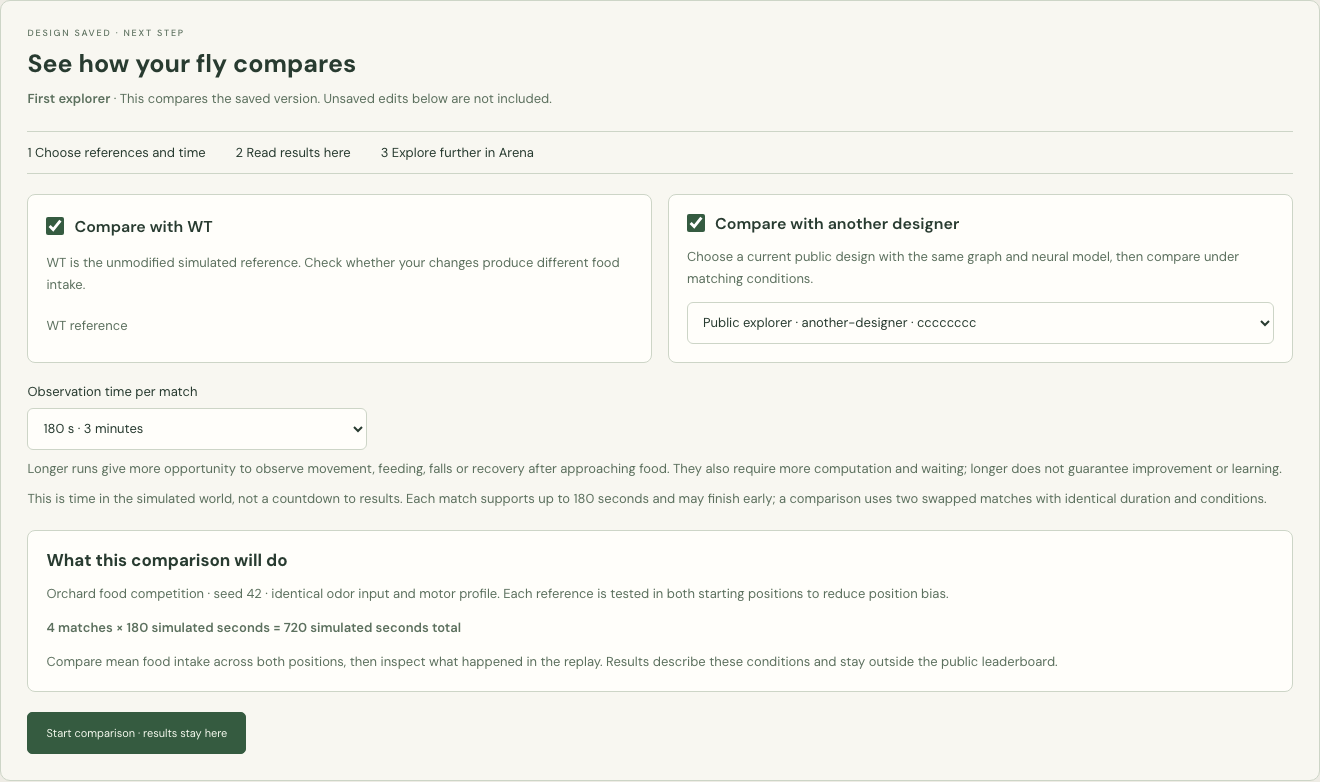
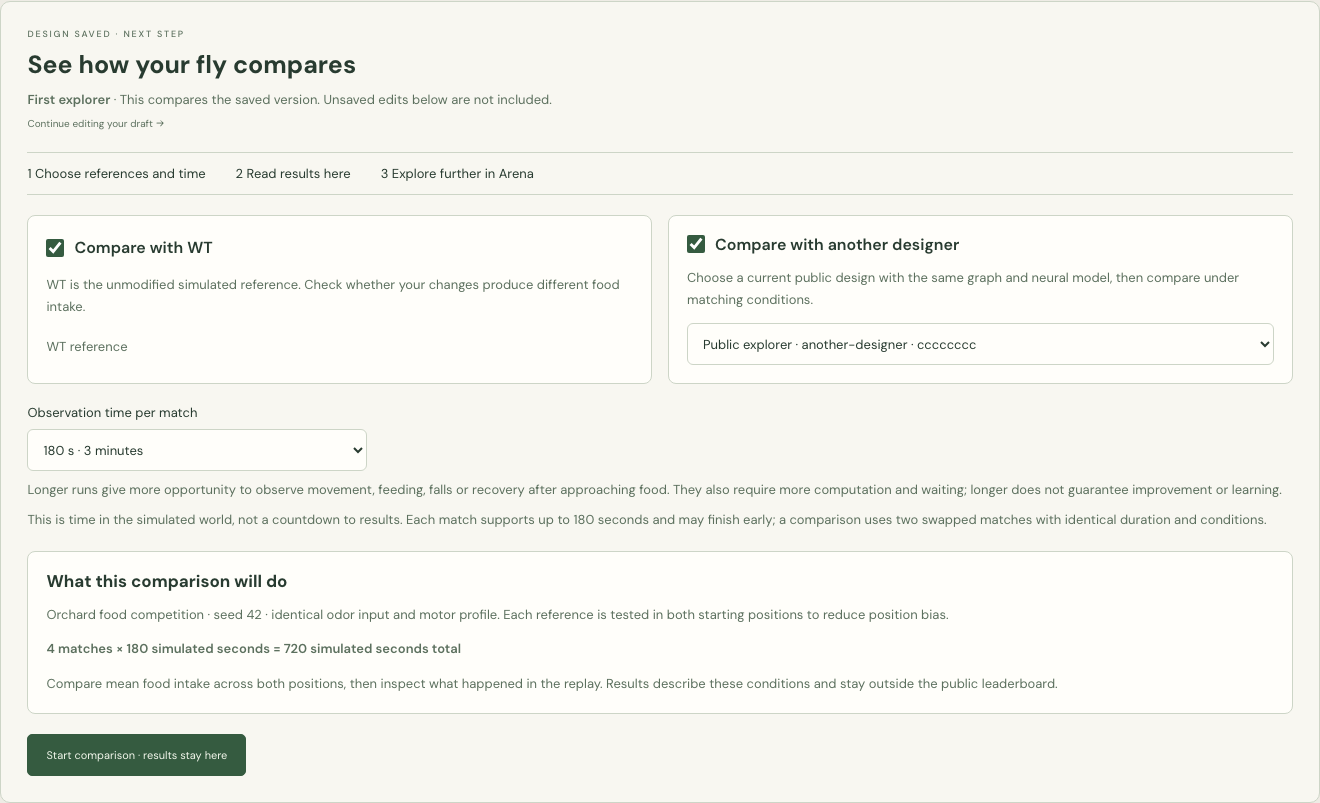
Clarify first-time design guidance and disclose advanced tools progressively

diff --git a/web/src/App.tsx b/web/src/App.tsx
@@ -75,6 +75,8 @@ export default function App(){
   const experimentSubmitting=useRef(false)
   const pendingIntent=useRef<'match'|'save'|'save-arena'|'save-train'|null>(null)
   const [comparisonFocus,setComparisonFocus]=useState(0)
+  const [comparisonOpen,setComparisonOpen]=useState(true)
+  const [hasDraft,setHasDraft]=useState(false)
   const [identityName,setIdentityName]=useState('')
   const [invite,setInvite]=useState('')
   const [showToken,setShowToken]=useState(false)
@@ -191,7 +193,7 @@ export default function App(){
     weight_mutations:Object.entries(scales).filter(([,v])=>Math.abs(v-1)>.00001).map(([selector,scale])=>({selector,scale})),
     edge_deltas:edgeDeltas,interventions,neuron_parameters:{...baseSpec.neuron_parameters,tau_scale:tau,threshold_shift_mv:threshold},plasticity:baseSpec.plasticity||'none'}),[baseSpec,interventions,name,color,parentId,season,scales,edgeDeltas,tau,threshold])
 
-  function clone(fly:Fly){setReplayOrigin(null);setParentId(fly.id);setBaseSpec(fly.spec);setInterventions(fly.spec.interventions||[]);setSelected(fly.id);setName(fly.name.split(' / ')[0]+' 02');setColor(fly.color);const values:Record<string,number>=defaultScales();for(const m of fly.spec.weight_mutations)values[m.selector]=(values[m.selector]??1)*m.scale;setScales(values);setTau(fly.spec.neuron_parameters.tau_scale);setThreshold(fly.spec.neuron_parameters.threshold_shift_mv);setEdgeDeltas(fly.spec.edge_deltas);setReport(null)}
+  function clone(fly:Fly){setHasDraft(true);setComparisonOpen(false);setReplayOrigin(null);setParentId(fly.id);setBaseSpec(fly.spec);setInterventions(fly.spec.interventions||[]);setSelected(fly.id);setName(fly.name.split(' / ')[0]+' 02');setColor(fly.color);const values:Record<string,number>=defaultScales();for(const m of fly.spec.weight_mutations)values[m.selector]=(values[m.selector]??1)*m.scale;setScales(values);setTau(fly.spec.neuron_parameters.tau_scale);setThreshold(fly.spec.neuron_parameters.threshold_shift_mv);setEdgeDeltas(fly.spec.edge_deltas);setReport(null)}
   async function action(label:string,fn:()=>Promise<void>){setBusy(label);setError('');try{await fn()}catch(e){setError(e instanceof Error?e.message:String(e))}finally{setBusy('')}}
   function loginNyxID(){if(!authSettings?.login_url)return;try{sessionStorage.setItem('flyarena.pendingDesign',JSON.stringify({spec,jsonEditor,tab,replayOrigin,intent:pendingIntent.current,experiment:pendingExperiment.current,experimentAttempt:experimentAttempt.current,setup:{selected,mapId,mode,opponent,duration,seedText,bridgeProfile,sensoryProfile}}));window.location.assign(authSettings.login_url)}catch(e){setError(String(e))}}
   async function createAgentToken(){await action('agent-token',async()=>{const key=await api<{token:string}>('/auth/agent-tokens',{method:'POST'});setFreshToken(key.token);setAgentTokens(await api('/auth/agent-tokens'))})}
@@ -200,18 +202,19 @@ export default function App(){
   async function validate(){if(!identity){setLogin(true);return}await action('validate',async()=>{const r=await api<Report>('/flies/validate',{method:'POST',body:JSON.stringify(spec)},identity);setReport(r);setToast(t("权重、图谱版本和变异预算验证通过。"))})}
   async function previewNeural(){if(!identity){setLogin(true);return}await action('neural-preview',async()=>{const result=await api<NeuralPreview>('/flies/preview',{method:'POST',body:JSON.stringify(spec)},identity);setNeuralPreview({data:result,specKey:JSON.stringify(spec)});setToast(t('Neural preview recorded from the retained graph.'))})}
   async function previewExample(){await action('neural-example',async()=>{const response=await fetch('/examples/neural-preview-nectar-v3.json');if(!response.ok)throw Error(locale==='zh-CN'?'刺激样本暂不可用':'Stimulus example is unavailable');const data:NeuralPreview=await response.json();if(!['neural-design-preview/v2','neural-design-preview/v3'].includes(data.schema)||!data.example)throw Error('Invalid stimulus example');setNeuralPreview({data,specKey:null})})}
-  function openSavedComparison(){setTab('design');setComparisonFocus(value=>value+1)}
+  function openSavedComparison(){setComparisonOpen(true);setTab('design');setComparisonFocus(value=>value+1)}
   useEffect(()=>{
     if(!comparisonFocus||tab!=='design')return
-    const panel=document.getElementById('saved-design-comparison')
+    const panel=document.getElementById('comparison-content')
     panel?.scrollIntoView?.({block:'start',behavior:'smooth'});panel?.focus({preventScroll:true})
   },[comparisonFocus,tab])
+  function openEditor(){setComparisonOpen(false);setHasDraft(true);document.getElementById('fly-name')?.scrollIntoView?.({block:'center',behavior:'smooth'});document.getElementById('fly-name')?.focus({preventScroll:true})}
   async function publish(){
     if(!identity){pendingIntent.current='save';setLogin(true);return}
     await action('publish',async()=>{
       const fly=await api<Fly>('/flies',{method:'POST',body:JSON.stringify(spec)},identity)
       setFlies(old=>[fly,...old.filter(item=>item.id!==fly.id)])
-      setSelected(fly.id);setReport(fly.report);setBaseSpec(fly.spec);setParentId(fly.id);setReplayOrigin(null)
+      setHasDraft(false);setSelected(fly.id);setReport(fly.report);setBaseSpec(fly.spec);setParentId(fly.id);setReplayOrigin(null)
       openSavedComparison();setToast('')
     })
   }
@@ -250,7 +253,7 @@ export default function App(){
     if(intent==='match'){const plan=pendingExperiment.current;if(plan)void startMatch(plan)}
     else if(intent)void publish()
   },[identity,login,season,setupRestored])
-  function loadSpec(value:Spec){assertSpec(value);setReplayOrigin(null);setParentId(value.parent_id||null);setBaseSpec(value);setInterventions(value.interventions||[]);setName(value.name);setColor(value.color);setSelected(value.parent_id||'');const values:Record<string,number>=defaultScales();for(const m of value.weight_mutations)values[m.selector]=(values[m.selector]??1)*m.scale;setScales(values);setTau(value.neuron_parameters?.tau_scale??1);setThreshold(value.neuron_parameters?.threshold_shift_mv??0);setEdgeDeltas(value.edge_deltas||[]);setReport(null);setTab('design');setToast(t("设计已导入；保存时将再次通过服务端验证。"))}
+  function loadSpec(value:Spec){assertSpec(value);setHasDraft(true);setComparisonOpen(false);setReplayOrigin(null);setParentId(value.parent_id||null);setBaseSpec(value);setInterventions(value.interventions||[]);setName(value.name);setColor(value.color);setSelected(value.parent_id||'');const values:Record<string,number>=defaultScales();for(const m of value.weight_mutations)values[m.selector]=(values[m.selector]??1)*m.scale;setScales(values);setTau(value.neuron_parameters?.tau_scale??1);setThreshold(value.neuron_parameters?.threshold_shift_mv??0);setEdgeDeltas(value.edge_deltas||[]);setReport(null);setTab('design');setToast(t("设计已导入；保存时将再次通过服务端验证。"))}
   function designFromReplay(draft:Spec,origin:ReplayDesignOrigin){loadSpec(draft);setReplayOrigin(origin);setSelected('');setNeuralPreview(null);setPlay(false)}
   const estimated=useMemo(()=>{
     if(!season)return 0
@@ -274,20 +277,20 @@ export default function App(){
       {error&&<div className="error-banner" role="alert"><span>{error}</span><button onClick={()=>setError('')} aria-label={t("关闭错误")}><X size={16}/></button></div>}
 
       {tab==='design'&&<>
-        {replayOrigin&&<section className="panel replay-design-origin" aria-label={locale==='zh-CN'?'回放设计来源':'Replay design source'}><div><strong>{locale==='zh-CN'?'从这份参赛大脑继续设计：':'Designing from this recorded brain: '}{replayOrigin.name}</strong><p>{locale==='zh-CN'?'当前是未保存的后代草稿。修改、预览并保存后，选择算法训练或与 WT 竞技。':'This is an unsaved child draft. Edit, preview and save it, then select training or compete with WT.'}</p></div><button className="text-link" aria-label={locale==='zh-CN'?'回看亲代这场表现':'Revisit the parent’s match'} onClick={()=>setFocused(replayOrigin.matchId)}>{locale==='zh-CN'?'回看亲代这场表现':'Revisit the parent’s match'} →</button></section>}
+        {replayOrigin&&<section className="panel replay-design-origin" aria-label={locale==='zh-CN'?'回放设计来源':'Replay design source'}><div><strong>{locale==='zh-CN'?'从这份参赛大脑继续设计：':'Designing from this recorded brain: '}{replayOrigin.name}</strong><p>{locale==='zh-CN'?'当前是未保存的后代草稿。修改并保存后，先与 WT 和其他设计对比。':'This is an unsaved child draft. Edit and save it, then compare with WT and other designs.'}</p></div><button className="text-link" aria-label={locale==='zh-CN'?'回看亲代这场表现':'Revisit the parent’s match'} onClick={()=>setFocused(replayOrigin.matchId)}>{locale==='zh-CN'?'回看亲代这场表现':'Revisit the parent’s match'} →</button></section>}
 
-        {guideFly&&identity&&<div id="saved-design-comparison" tabIndex={-1}><FirstComparison key={identity.id+guideFly.id} subject={guideFly} flies={availableFlies} maps={maps} season={season} identity={identity} onArena={(series,match)=>{setSelected(guideFly.id);navigate('arena','',match,series,'');setPlay(false)}}/></div>}
-        <PlaygroundGuide neuronCount={season?.connectome.neuron_count}
-          canCloneWT={!!matchingWildType(flies)} hasSavedDesign={!!guideFly} subjectName={guideFly?.name} canCompare={!!guideFly} hasCompared={!!baselineComparison(availableFlies,guideFly,guideEvidence.record)} hasEvolved={hasRecordedEvolution(guideEvidence.record,guideFly)} evidenceError={guideEvidence.error}
+        {guideFly&&identity&&<details id="saved-design-comparison" open={comparisonOpen} onToggle={e=>setComparisonOpen(e.currentTarget.open)}><summary>{locale==='zh-CN'?'已保存版本的对比与结果':'Saved design: comparison and results'} · {guideFly.name}</summary><div tabIndex={-1} id="comparison-content"><FirstComparison key={identity.id+guideFly.id} subject={guideFly} flies={availableFlies} maps={maps} season={season} identity={identity} onEdit={openEditor} onArena={(series,match)=>{setSelected(guideFly.id);navigate('arena','',match,series,'');setPlay(false)}}/></div></details>}
+        <PlaygroundGuide hasDraft={hasDraft} referenceOnly={!!guideFly&&comparisonOpen} neuronCount={season?.connectome.neuron_count}
+          canCloneWT={!!matchingWildType(flies)} hasSavedDesign={!!guideFly} subjectName={hasDraft?name:guideFly?.name} canCompare={!!guideFly} hasCompared={!!baselineComparison(availableFlies,guideFly,guideEvidence.record)} hasEvolved={hasRecordedEvolution(guideEvidence.record,guideFly)} evidenceError={guideEvidence.error}
           onCompare={openSavedComparison}
-          onDesign={()=>{document.getElementById('fly-name')?.scrollIntoView({block:'center',behavior:'smooth'});document.getElementById('fly-name')?.focus({preventScroll:true})}}
-          onCloneWT={()=>{const wt=matchingWildType(flies);if(wt){clone(wt);setToast(locale==='zh-CN'?'已复制 WT 为草稿。修改并保存后，再训练或挑战。':'WT copied into a draft. Edit and save it before training or competing.');document.getElementById('fly-name')?.focus()}}}
+          onDesign={openEditor}
+          onCloneWT={()=>{const wt=matchingWildType(flies);if(wt){clone(wt);setToast(locale==='zh-CN'?'已复制 WT 为草稿。命名、做一个小改动，再保存并对比。':'WT copied into a draft. Name it, make one small change, then save and compare.');document.getElementById('fly-name')?.focus()}}}
           onTrain={()=>{if(guideFly)setSelected(guideFly.id);navigate('train',experimentId,'','')}} onArena={()=>{if(guideFly)setSelected(guideFly.id);setMode('contest');navigate('arena',experimentId,'','');setPlay(false)}}
           onAI={()=>{setJsonEditor(JSON.stringify(spec,null,2));setTab('code')}}/>
         <div className="design-workspace">
-          <aside className="collection panel"><div className="panel-heading"><span>{t("我的果蝇库")}</span><span className="count">{flies.length.toString().padStart(2,'0')}</span></div><div className="tiny-label">{t("SELECT A STARTING POINT")}</div><p className="draft-status">{parentId?t('Unsaved draft from parent')+': '+parentId:t('Unsaved canonical draft')}</p>
+          <aside className="collection panel"><div className="panel-heading"><span>{locale==='zh-CN'?'果蝇库 · 选择起点':'Fly library · starting points'}</span><span className="count">{flies.length.toString().padStart(2,'0')}</span></div><div className="tiny-label">{t("SELECT A STARTING POINT")}</div><p className="draft-status">{parentId?t('Unsaved draft from parent')+': '+parentId:t('Unsaved canonical draft')}</p>
             <div className="fly-list">{flies.slice(0,12).map(f=><SavedFlyCard key={f.id} fly={f} viewer={identity?.id} selected={parentId===f.id} onClone={clone}/>)}</div>
-            <button className="new-fly" onClick={()=>{setReplayOrigin(null);setScales(defaultScales());setTau(1);setThreshold(0);setName('Untitled 01');setSelected('');setParentId(null);setBaseSpec({});setInterventions([]);setEdgeDeltas([]);setReport(null);setToast(t("已恢复基线参数，为新设计取个名字吧。"))}}><Plus size={15}/>{t("从原型开始设计")}</button>
+            <button className="new-fly" onClick={()=>{setHasDraft(true);setComparisonOpen(false);setReplayOrigin(null);setScales(defaultScales());setTau(1);setThreshold(0);setName('Untitled 01');setSelected('');setParentId(null);setBaseSpec({});setInterventions([]);setEdgeDeltas([]);setReport(null);setToast(t("已恢复基线参数，为新设计取个名字吧。"))}}><Plus size={15}/>{t("从原型开始设计")}</button>
             <div className="collection-footer"><GitBranch size={18}/><strong>{t("进化，有迹可循")}</strong><p>{t("每个设计都保留图谱来源、父代和不可变的权重版本。")}</p><button onClick={()=>setTab('train')}>{t("Training sandbox")}<ArrowRight size={14}/></button></div>
           </aside>
 
@@ -298,20 +301,21 @@ export default function App(){
             <div className="specimen-stats"><div><span>{t("NEURONS")}</span><strong>{season?num(season.connectome.neuron_count):'—'}</strong></div><div><span>{t("CONNECTIONS")}</span><strong>{season?(season.connectome.edge_count/1e6).toFixed(2)+'M':'—'}</strong></div><div><span>{t("BODY MODEL")}</span><strong>MuJoCo <small>3.9</small></strong></div></div>
           </section>
 
-          <aside className="editor panel"><div className="panel-heading"><span><Settings2 size={16}/> {t("神经设计")}</span><button className="icon-button" title={t("重置参数")} onClick={()=>{setScales(defaultScales());setTau(1);setThreshold(0);setInterventions([]);setEdgeDeltas([]);setReport(null)}}><RotateCcw size={15}/></button></div>
+          <aside className="editor panel" onChange={()=>setHasDraft(true)}><div className="panel-heading"><span><Settings2 size={16}/> {t("神经设计")}</span><button className="icon-button" title={t("重置参数")} onClick={()=>{setScales(defaultScales());setTau(1);setThreshold(0);setInterventions([]);setEdgeDeltas([]);setReport(null)}}><RotateCcw size={15}/></button></div>
+            <p className="editor-first-step">{locale==='zh-CN'?'第一次只需：命名 → 小幅修改一个权重 → 保存并对比。先保留默认神经模型；下方高级工具可稍后探索。':'For your first design: name it → change one weight slightly → save and compare. Keep the default neural model; advanced tools can wait.'}</p>
             <label className="field-label" htmlFor="fly-name">{t("给你的果蝇命名")}</label><input id="fly-name" value={name} onChange={e=>setName(e.target.value)} maxLength={64}/>
             <div className="color-row"><span>{t("个体标记")}</span><div>{Object.entries(colors).map(([key,value])=><button key={key} title={t(key)} aria-label={t("选择 ")+t(key)+t(" 配色")} className={color===key?'chosen':''} style={{background:value}} onClick={()=>setColor(key)}>{color===key&&<Check size={11}/>}</button>)}</div></div>
             <div className="section-divider"/>
-            <BrainModelPicker value={spec.model_profile} onChange={model=>{setBaseSpec(old=>({...old,model_profile:model}));setReport(null)}}/>
+            <details className="design-extra"><summary>{locale==='zh-CN'?'高级：更换神经模型':'Advanced: change neural model'}</summary><BrainModelPicker value={spec.model_profile} onChange={model=>{setBaseSpec(old=>({...old,model_profile:model}));setReport(null)}}/></details>
             <div className="controls-caption"><strong>{t("连接权重")}</strong><span>{t("原型 × 1.00")}</span></div>
             <p className="capability-note">{t('Start with olfactory → projection / local → readout. Vision depends on the match sensory profile; weight edits alone do not add learning or new motor channels.')}</p><div className="sliders">{season?.connectome.circuits.filter(c=>!['visual','memory','motor'].includes(c.id)).map(c=><label key={c.id} className={'slider-control '+(['visual','memory','motor'].includes(c.id)?'exploratory':'primary-control')}><span><span className="circuit-dot" style={{background:c.color}}/>{t(c.label)}<small>× {scales[c.id]?.toFixed(2)}</small></span><input aria-label={t(c.label)+' '+t('Weight')} type="range" min="0.5" max="2" step=".01" value={scales[c.id]??1} onChange={e=>{setScales(s=>({...s,[c.id]:Number(e.target.value)}));setReport(null)}}/></label>)}</div><details className="exploratory-controls"><summary>{t('Exploratory edits: vision, memory and motor')}</summary><p>{t('Experimental visual input requires a compatible sensory profile. Memory and motor edits remain exploratory.')}</p><div className="sliders">{season?.connectome.circuits.filter(c=>['visual','memory','motor'].includes(c.id)).map(c=><label key={c.id} className={'slider-control '+(['visual','memory','motor'].includes(c.id)?'exploratory':'primary-control')}><span><span className="circuit-dot" style={{background:c.color}}/>{t(c.label)}<small>× {scales[c.id]?.toFixed(2)}</small></span><input aria-label={t(c.label)+' '+t('Weight')} type="range" min="0.5" max="2" step=".01" value={scales[c.id]??1} onChange={e=>{setScales(s=>({...s,[c.id]:Number(e.target.value)}));setReport(null)}}/></label>)}</div></details>
             <details className="intrinsic"><summary>{t("神经元动力学")}<ChevronDown size={13}/></summary><label>{t("膜时间常数")}<b>× {tau.toFixed(2)}</b><input aria-label={t("膜时间常数")} type="range" min=".8" max="1.2" step=".01" value={tau} onChange={e=>{setTau(+e.target.value);setReport(null)}}/></label><label>{t("发放阈值变化")}<b>{threshold>0?'+':''}{threshold.toFixed(1)} {t("mV")}</b><input aria-label={t("发放阈值")} type="range" min="-1" max="1" step=".1" value={threshold} onChange={e=>{setThreshold(+e.target.value);setReport(null)}}/></label></details>
             <div className={'budget '+(used>100?'over':'')}><div><span>{report?t("已验证预算"):t("预算估算")}</span><strong>{used.toFixed(1)} <small>/ 100</small></strong></div><div className="budget-track"><span style={{width:Math.min(100,used)+'%'}}/></div><p>{report?`${num(report.changed_edges)} ${t('Changed connections')}`:t("强化与削弱都消耗预算，最终由服务端核算。")}</p>{!report&&(interventions.length>0||edgeDeltas.length>0)&&<p>{t('Estimate excludes advanced and edge edits. Validate for the authoritative total.')}</p>}</div>
-            <div className="editor-actions"><button className="primary" onClick={()=>publish()} disabled={!!busy||!season}>{busy==='publish'?<Loader2 className="spin" size={15}/>:<Plus size={15}/>}{locale==='zh-CN'?'保存并对比':'Save and compare'}</button><button className="secondary" onClick={validate} disabled={!!busy}>{busy==='validate'?<Loader2 className="spin" size={15}/>:<ShieldCheck size={15}/>}{t("验证")}</button><button className="secondary" onClick={previewNeural} disabled={!!busy||!season}>{busy==='neural-preview'?<Loader2 className="spin" size={15}/>:<AudioLines size={15}/>}{t('Preview neural response')}</button><button className="secondary" onClick={previewExample} disabled={!!busy}>{busy==='neural-example'?<Loader2 className="spin" size={15}/>:<Beaker size={15}/>} {locale==='zh-CN'?'查看真实刺激样本':'View recorded stimulus example'}</button></div>
+            <div className="editor-actions"><button className="primary" onClick={()=>publish()} disabled={!!busy||!season}>{busy==='publish'?<Loader2 className="spin" size={15}/>:<Plus size={15}/>}{locale==='zh-CN'?'保存并对比':'Save and compare'}</button><button className="secondary" onClick={validate} disabled={!!busy}>{busy==='validate'?<Loader2 className="spin" size={15}/>:<ShieldCheck size={15}/>}{t("验证")}</button></div><details className="design-extra"><summary>{locale==='zh-CN'?'可选：检查神经响应与刺激样本':'Optional: inspect neural responses and examples'}</summary><div className="editor-actions"><button className="secondary" onClick={previewNeural} disabled={!!busy||!season}>{busy==='neural-preview'?<Loader2 className="spin" size={15}/>:<AudioLines size={15}/>}{t('Preview neural response')}</button><button className="secondary" onClick={previewExample} disabled={!!busy}>{busy==='neural-example'?<Loader2 className="spin" size={15}/>:<Beaker size={15}/>} {locale==='zh-CN'?'查看真实刺激样本':'View recorded stimulus example'}</button></div></details>
           </aside>
         </div>
         {neuralPreview&&<NeuralPreviewPanel record={neuralPreview} stale={neuralPreview.specKey!==JSON.stringify(spec)} circuits={season?.connectome.circuits||[]} onImport={loadSpec} onReplay={id=>{setFocused(id);setTab('arena')}}/>}
-        <AdvancedInterventions value={interventions} onChange={v=>{setInterventions(v);setReport(null)}} report={report} spec={spec} onValidate={validate} busy={!!busy}/>
+        <details className="design-extra design-advanced"><summary>{locale==='zh-CN'?'高级设计：定向干预与连接编辑':'Advanced design: targeted interventions and connections'}</summary><AdvancedInterventions value={interventions} onChange={v=>{setInterventions(v);setReport(null)}} report={report} spec={spec} onValidate={validate} busy={!!busy}/></details>
         <button className="text-link" onClick={()=>{setFocused('');setPlay(false)}}>{t('guide.arenaLink')}<ArrowUpRight size={16}/></button>
       </>}
 

diff --git a/web/src/features/design/FirstComparison.tsx b/web/src/features/design/FirstComparison.tsx
@@ -12,7 +12,7 @@ import './firstComparison.css'
 type Request=Extract<ExperimentPlan['submissions'][number],{endpoint:'/tournaments'}>['body']
 type Entry={key:string;request:Request;referenceName:string;kind:'wt'|'public';id?:string}
 type Attempt={entries:Entry[]}
-type Props={subject:Fly;flies:Fly[];maps:ArenaMap[];season:Season|null;identity:Identity;onArena:(series:string,match:string)=>void}
+type Props={subject:Fly;flies:Fly[];maps:ArenaMap[];season:Season|null;identity:Identity;onEdit?:()=>void;onArena:(series:string,match:string)=>void}
 
 function restore(key:string,subject:Fly):Attempt|null{
  try{
@@ -28,7 +28,7 @@ function restore(key:string,subject:Fly):Attempt|null{
  return null
 }
 
-export function FirstComparison({subject,flies,maps,season,identity,onArena}:Props){
+export function FirstComparison({subject,flies,maps,season,identity,onEdit,onArena}:Props){
  const {locale,t}=useI18n(),zh=locale==='zh-CN'
  const storageKey=`flyarena.first-comparison.${identity.id}.${subject.id}`
  const wt=matchingWildType(flies,subject),others=publicComparisonFlies(flies,subject)
@@ -70,7 +70,7 @@ export function FirstComparison({subject,flies,maps,season,identity,onArena}:Pro
  }
  const reportReceived=(report:Series)=>setReports(old=>({...old,[report.id]:report}))
  return <section className="first-comparison panel" aria-label={zh?'保存后的首次对比':'Compare your saved design'}>
-  <header><span className="eyebrow">{zh?'设计已保存 · 下一步':'DESIGN SAVED · NEXT STEP'}</span><h2>{zh?'先看看它与其他果蝇有什么不同':'See how your fly compares'}</h2><p><strong>{subject.name}</strong> · {zh?'这里比较已保存的版本；下方尚未保存的修改不会加入本次对比。':'This compares the saved version. Unsaved edits below are not included.'}</p></header>
+  <header><span className="eyebrow">{zh?'设计已保存 · 下一步':'DESIGN SAVED · NEXT STEP'}</span><h2>{zh?'先看看它与其他果蝇有什么不同':'See how your fly compares'}</h2><p><strong>{subject.name}</strong> · {zh?'这里比较已保存的版本；下方尚未保存的修改不会加入本次对比。':'This compares the saved version. Unsaved edits below are not included.'}</p>{onEdit&&<button className="text-link" onClick={onEdit}>{zh?'继续编辑草稿 →':'Continue editing your draft →'}</button>}</header>
   <ol className="first-comparison-steps"><li>{zh?'1 选择对照与时间':'1 Choose references and time'}</li><li>{zh?'2 在这里查看结果':'2 Read results here'}</li><li>{zh?'3 去竞技场继续探索':'3 Explore further in Arena'}</li></ol>
   {!attempt?<>
    <div className="first-comparison-targets">
@@ -81,7 +81,7 @@ export function FirstComparison({subject,flies,maps,season,identity,onArena}:Pro
    <div className="first-comparison-plan"><h3>{zh?'这次会怎样比较':'What this comparison will do'}</h3><p>{zh?'果园 · 食物竞争 · 相同种子 42 · 相同嗅觉输入与运动方案。每个对照交换一次出生位置，减少位置造成的偏差。':'Orchard food competition · seed 42 · identical odor input and motor profile. Each reference is tested in both starting positions to reduce position bias.'}</p><p><strong>{planned.length*2} {zh?'场':'matches'} × {duration} {zh?'模拟秒':'simulated seconds'} = {planned.length*2*duration} {zh?'模拟秒合计':'simulated seconds total'}</strong></p><p>{zh?'先比较两场的平均摄取量，再去回放看发生了什么。这些结果只描述当前条件，不计入公开排行榜。':'Compare mean food intake across both positions, then inspect what happened in the replay. Results describe these conditions and stay outside the public leaderboard.'}</p>{errors.map(e=><p role="status" key={e}>{t(e)}</p>)}{!planned.length&&<p role="status">{zh?'请至少选择一个可用对照。':'Choose at least one available reference.'}</p>}</div>
    <button className="primary" disabled={busy||!planned.length||!!errors.length} onClick={()=>void start()}>{zh?'开始对比，结果显示在这里':'Start comparison · results stay here'}</button>
   </>:<>
-   <p>{zh?'对比已准备。每个对照各两场，交换出生位置；关闭或刷新页面不会取消已提交的计算。':'Comparison prepared: two swapped matches per reference. Closing or refreshing this page does not cancel submitted work.'}</p>
+   <p>{zh?'对比已准备。每个对照各两场，交换出生位置；关闭或刷新页面不会取消已提交的计算。可以继续编辑草稿，回到这里查看进度；无需重复点击开始。':'Comparison prepared: two swapped matches per reference. Closing or refreshing this page does not cancel submitted work. You can keep editing and return here for progress; no need to start again.'}</p>
    <div className="first-comparison-results">{attempt.entries.map(entry=><ComparisonReport key={entry.key} entry={entry} subject={subject} onReport={reportReceived} onArena={onArena}/>)}</div>
    {attempt.entries.some(e=>!e.id)&&<button className="primary" disabled={busy} onClick={()=>void start()}>{busy?(zh?'正在提交对比…':'Submitting comparison…'):(zh?'重试未确认的提交':'Retry unconfirmed submissions')}</button>}
    {error&&<p role="alert">{error} {zh?'已接受的任务会保留；重试会沿用原请求，不会重复提交已确认的对比。':'Accepted work is retained. Retry reuses the original requests.'}</p>}

diff --git a/web/src/shared/messages/guide.ts b/web/src/shared/messages/guide.ts
@@ -1,4 +1,6 @@
 export const guideMessages = {
+  'guide.library':{'en':'Find your way: workspaces and science guide','zh-CN':'按需了解：功能地图与科学指南'},
+  'guide.workspaces':{'en':'Start in Design: save → compare → inspect results. Arena replays those runs and lets you change conditions. Later, Training searches descendants, Life archive traces their lineage, Phenotype Lab runs controlled solo tests, and AI / API connects your own tools. You do not need to use every workspace.','zh-CN':'先在设计工坊完成：保存 → 对比 → 看结果。竞技场用来回看这些运行、改变条件继续比较。之后，训练沙箱用于搜索后代，生命档案用于追溯谱系，表型实验室用于受控单体测试，AI / API 用于接入自己的工具。无需按顺序体验全部功能。'},
   'guide.label':{'en':'Playground guide','zh-CN':'实验场指南'},
   'guide.reopenPrompt':{'en':'New here? Start with the guide','zh-CN':'第一次来？从指南开始'},
   'guide.reopen':{'en':'Reopen playground guide','zh-CN':'重新打开实验场指南'},
@@ -31,13 +33,13 @@ export const guideMessages = {
   'guide.data.uses':{'en':'Potential applications include generating circuit hypotheses, benchmarking connectome models and optimizers, training surrogate models to approximate simulation outcomes, and prioritizing wet-lab experiments.','zh-CN':'潜在应用包括生成回路假设、对连接组模型与优化器进行基准评测、训练近似仿真结果的代理模型，以及帮助选择优先开展的湿实验。'},
   'guide.data.limits':{'en':'These uses require suitable coverage, data quality checks and independent validation. Benchmarks need held-out conditions; surrogate models inherit simulation assumptions and bias. Wet-lab relevance requires experiments on real animals. None of these applications is an established outcome of this preview.','zh-CN':'这些用途需要合适的覆盖范围、数据质量检查与独立验证。基准评测需要留出条件；代理模型会继承仿真假设与偏差。湿实验相关性仍需在真实动物上验证。这些应用均不是当前预览版已确立的成果。'},
   'guide.journey.title':{'en':'Your first journey','zh-CN':'你的第一次探索'},
-  'guide.journey.summary':{'en':'Clone WT → edit → save → compare with WT → bounded evolution → compete with others.','zh-CN':'复制 WT → 编辑 → 保存 → 与 WT 比较 → 有限预算演化 → 与其他设计竞技。'},
+  'guide.journey.summary':{'en':'Clone WT → edit → save → compare with WT and another designer → inspect results and replays. Evolution and further competition are optional next experiments.','zh-CN':'复制 WT → 编辑 → 保存 → 与 WT 和其他设计师对比 → 看结果与回放。演化和进一步竞技是之后可选的实验。'},
   'guide.journey.help':{'en':'Start with one small change. These guide buttons open the relevant workspace or copy a draft; they do not save a design or launch simulation. Choose conditions and a finite budget before submitting evaluations.','zh-CN':'先做一个小改动。指南按钮仅打开相关工作区或复制草稿，不会保存设计或启动仿真。提交评估前，请选择实验条件和有限预算。'},
   'guide.clone.title':{'en':'Clone WT','zh-CN':'复制 WT'},
   'guide.clone.summary':{'en':'Start from the unmodified simulated baseline.','zh-CN':'从未修改的模拟基线开始。'},
   'guide.clone.detail':{'en':'Use the server-identified WT reference. Copying it makes an editable draft; the clone does not acquire WT reference status. If WT is unavailable, the shortcut stays disabled.','zh-CN':'使用服务端标识的 WT 参考。复制后得到可编辑草稿；副本不会获得 WT 参考身份。WT 不可用时，快捷按钮保持禁用。'},
   'guide.edit.title':{'en':'Edit','zh-CN':'编辑'},
-  'guide.edit.summary':{'en':'Change one circuit weight or neuron parameter.','zh-CN':'修改一个回路权重或神经元参数。'},
+  'guide.edit.summary':{'en':'Name your draft, make one small circuit-weight change, then choose Save and compare in the editor. Saving alone does not start a simulation.','zh-CN':'给草稿命名，小幅修改一个回路权重，然后在编辑器点击“保存并对比”。保存本身不会启动仿真。'},
   'guide.edit.detail':{'en':'Give the draft a name and keep changes within the mutation budget. Validate the design; record the hypothesis behind the change so the comparison has a clear question.','zh-CN':'为草稿命名，并将改动限制在突变预算内。验证设计，记录改动背后的假设，让比较有明确的问题。'},
   'guide.save.title':{'en':'Save','zh-CN':'保存'},
   'guide.save.summary':{'en':'Save an immutable FlySpec with its parent recorded.','zh-CN':'编辑并保存不可变的 FlySpec，记录其亲代。'},

diff --git a/web/src/features/guide/PlaygroundGuide.tsx b/web/src/features/guide/PlaygroundGuide.tsx
@@ -13,6 +13,8 @@ export type PlaygroundGuideProps = {
   onCloneWT:()=>void
   canCloneWT:boolean
   hasSavedDesign:boolean
+  hasDraft?:boolean
+  referenceOnly?:boolean
   onCompare:()=>void
   canCompare:boolean
   hasCompared?:boolean
@@ -24,7 +26,7 @@ export type PlaygroundGuideProps = {
 
 const STORAGE_KEY='flyarena.playground-guide-collapsed'
 
-export function PlaygroundGuide({onDesign,onTrain,onArena,onAI,onCloneWT,canCloneWT,hasSavedDesign,neuronCount,onCompare,canCompare,hasCompared=false,hasEvolved=false,subjectName,evidenceError}:PlaygroundGuideProps){
+export function PlaygroundGuide({onDesign,onTrain,onArena,onAI,onCloneWT,canCloneWT,hasSavedDesign,hasDraft=false,referenceOnly=false,neuronCount,onCompare,canCompare,hasCompared=false,hasEvolved=false,subjectName,evidenceError}:PlaygroundGuideProps){
   const {t,locale}=useI18n()
   const [expanded,setExpanded]=useState(true)
   const actions:Record<GuideAction,()=>void>={clone:onCloneWT,design:onDesign,compare:onCompare,train:onTrain,compete:onArena}
@@ -33,7 +35,7 @@ export function PlaygroundGuide({onDesign,onTrain,onArena,onAI,onCloneWT,canClon
     try{if(window.localStorage.getItem(STORAGE_KEY)==='1')setExpanded(false)}catch{}
   },[])
 
-  const next=nextGuideStep({hasSavedDesign,hasCompared,hasEvolved})
+  const next=nextGuideStep({hasSavedDesign,hasDraft,hasCompared,hasEvolved})
   const disabled=(action:GuideAction)=>action==='clone'?!canCloneWT:action==='compare'?!canCompare:false
   const nextAction=<button className="playground-guide__action" data-guide-next={next.id} disabled={disabled(next.action!)} onClick={actions[next.action!]}>{t(next.title)}<ArrowRight size={14}/></button>
 
@@ -41,11 +43,13 @@ export function PlaygroundGuide({onDesign,onTrain,onArena,onAI,onCloneWT,canClon
   const reopen=()=>{setExpanded(true);try{window.localStorage.removeItem(STORAGE_KEY)}catch{}}
   const learnMore=(title:GuideMessageKey)=><summary aria-label={t('guide.learnMore')+': '+t(title)}>{t('guide.learnMore')}<ChevronDown size={14}/></summary>
 
-  if(!expanded)return <section className="playground-guide playground-guide--collapsed" aria-label={t('guide.label')}><BookOpen size={17}/><span>{t('guide.next')}</span>{nextAction}<button className="playground-guide__reopen" onClick={reopen} aria-label={t('guide.reopen')}><ChevronDown size={16}/></button></section>
+  if(!expanded&&!referenceOnly)return <section className="playground-guide playground-guide--collapsed" aria-label={t('guide.label')}><BookOpen size={17}/><span>{t('guide.next')}</span>{nextAction}<button className="playground-guide__reopen" onClick={reopen} aria-label={t('guide.reopen')}><ChevronDown size={16}/></button></section>
 
-  return <section className="playground-guide" aria-labelledby="playground-guide-title">
-    <div className="playground-guide__topline"><span className="playground-guide__eyebrow"><span/> {t('guide.eyebrow')}</span><button className="playground-guide__collapse" onClick={collapse} aria-label={t('guide.collapse')}><ChevronUp size={16}/></button></div>
+  return <section className="playground-guide" aria-label={t('guide.label')}>
+    {!referenceOnly&&<><div className="playground-guide__topline"><span className="playground-guide__eyebrow"><span/> {t('guide.eyebrow')}</span><button className="playground-guide__collapse" onClick={collapse} aria-label={t('guide.collapse')}><ChevronUp size={16}/></button></div>
     <div className="playground-guide__intro"><div><h2 id="playground-guide-title">{t('guide.next')}: {t(next.title)}</h2><p>{t(next.summary)}{subjectName&&<> · <strong>{subjectName}</strong></>}</p>{nextAction}<p>{t('guide.prepareOnly')}</p>{next.id==='clone'&&!canCloneWT&&<p role="status">{t('guide.noWT')}</p>}{next.id==='compare'&&!canCompare&&<p role="status">{t('guide.noComparison')}</p>}{evidenceError&&<p role="status">{t('guide.evidenceError')} {evidenceError}</p>}</div>{neuronCount!==undefined&&<div className="playground-guide__count"><strong>{neuronCount.toLocaleString(locale)}</strong><span>{t('guide.count')}</span></div>}</div>
+    </>}
+    <details className="playground-guide__library"><summary>{t('guide.library')}</summary><p>{t('guide.workspaces')}</p>
     <ol className="playground-guide__sections">
       {guideSections.map((section,index)=><li key={section.id} className="playground-guide__section" data-guide-section={section.id}>
         <span className="playground-guide__number" aria-hidden="true">{String(index+1).padStart(2,'0')}</span>
@@ -59,6 +63,6 @@ export function PlaygroundGuide({onDesign,onTrain,onArena,onAI,onCloneWT,canClon
           </details>
         </div>
       </li>)}
-    </ol>
+    </ol></details>
   </section>
 }

diff --git a/web/src/features/design/firstComparison.css b/web/src/features/design/firstComparison.css
@@ -17,3 +17,9 @@
 .first-comparison-next{background:var(--surface-soft)}
 @media(max-width:700px){.first-comparison{padding:16px;gap:16px}.first-comparison h2{font-size:21px}.first-comparison-targets,.first-comparison-results{grid-template-columns:minmax(0,1fr)}.first-comparison-steps{display:grid;gap:8px}.first-comparison-choice,.first-comparison-result,.first-comparison-plan,.first-comparison-next{padding:14px}}
 .experiment-setup .two-fields>.observation-duration{grid-column:1/-1}
+
+#saved-design-comparison>summary{cursor:pointer;padding:14px 18px;font-size:14px;line-height:1.6;overflow-wrap:anywhere;color:var(--accent);background:var(--surface);border:1px solid var(--border);border-radius:8px;margin-bottom:16px}
+.editor-first-step{font-size:12px;line-height:1.7;color:var(--text-muted);padding:10px;background:var(--surface-soft);border-radius:6px;margin-bottom:16px}
+.design-extra{margin:14px 0;font-size:12px;line-height:1.7}.design-extra>summary{cursor:pointer;color:var(--accent);padding:8px 0}.design-extra>.editor-actions{flex-wrap:wrap;margin-top:10px}.design-extra .secondary{white-space:normal;text-align:left}
+.design-advanced{padding:10px 18px;border:1px solid var(--border);border-radius:8px}
+@media(max-width:600px){.design-workspace>.editor{grid-row:1}.design-workspace>.collection{grid-row:3}.design-workspace>.specimen-panel{grid-row:2}}

diff --git a/web/src/features/guide/guide.css b/web/src/features/guide/guide.css
@@ -8,3 +8,6 @@
 .playground-guide--collapsed{display:flex;align-items:center;gap:9px;padding:10px 15px;color:var(--text-muted)}.playground-guide--collapsed>span{font-size:12px}.playground-guide--collapsed .playground-guide__reopen{margin-left:auto}
 @media (max-width:850px){.playground-guide__steps{grid-template-columns:repeat(2,minmax(0,1fr))}}
 @media (max-width:560px){.playground-guide{padding:14px 15px}.playground-guide__intro{display:block}.playground-guide__count{margin-top:11px;padding:0;border:0}.playground-guide__count strong{display:inline;margin-right:7px}.playground-guide__count span{display:inline}.playground-guide__section{grid-template-columns:26px minmax(0,1fr);gap:8px}.playground-guide__number{width:25px;height:25px}.playground-guide__steps{grid-template-columns:1fr}.playground-guide h2{font-size:19px}}
+
+.playground-guide__library>summary{cursor:pointer;font-size:13px;line-height:1.6;padding:6px 0;color:var(--accent)}
+.playground-guide__library>p{margin:10px 0 16px;max-width:850px}

diff --git a/web/src/features/guide/content.ts b/web/src/features/guide/content.ts
@@ -22,8 +22,8 @@ export const journeySteps:readonly JourneyStep[]=[
   {id:'compete',title:'guide.compete.title',summary:'guide.compete.summary',detail:'guide.compete.detail',action:'compete',label:'guide.action.compete'},
 ]
 
-/** Progress is supplied from recorded evidence, never from clicking a guide action. */
-export function nextGuideStep({hasSavedDesign,hasCompared=false,hasEvolved=false}:{hasSavedDesign:boolean;hasCompared?:boolean;hasEvolved?:boolean}){
- const id=!hasSavedDesign?'clone':!hasCompared?'compare':hasEvolved?'compete':'evolve'
+/** Draft guidance follows editor state; comparison/evolution completion requires recorded evidence. */
+export function nextGuideStep({hasSavedDesign,hasDraft=false,hasCompared=false,hasEvolved=false}:{hasSavedDesign:boolean;hasDraft?:boolean;hasCompared?:boolean;hasEvolved?:boolean}){
+ const id=hasDraft?'edit':!hasSavedDesign?'clone':!hasCompared?'compare':hasEvolved?'compete':'evolve'
  return journeySteps.find(step=>step.id===id)!
 }

diff --git a/docs/FIRST_COMPARISON.md b/docs/FIRST_COMPARISON.md
@@ -12,6 +12,14 @@ Only the explicit Start comparison action submits work. Progress and the result 
 
 Submission keys, immutable request bodies and acknowledged series IDs are stored under the current owner and saved-fly IDs in this browser's local storage. Refresh or reopening reads existing reports without automatically submitting work. If a response is lost, explicit retry reuses its original key; acknowledged series are skipped. Local-storage failure cannot cancel server-side work; existing records remain available in Arena's series list. Resetting the panel is offered only after every acknowledged series has no queued/running legs.
 
+## Guidance and progressive disclosure
+
+The first-visit guide starts at Clone WT. Cloning or editing a draft changes the next step to editing and saving; a previous fly's recorded progress cannot mark a new draft as evaluated. The editor gives a short name → one small weight change → save sequence. On phones it appears before the body preview and library. Neural-model selection, stimulus/response tools and targeted interventions remain available in closed disclosures.
+
+When the saved comparison is open, it supplies the primary next step. The general guide becomes a closed workspace/science reference so it cannot simultaneously direct a visitor toward training. Its workspace map explains the purpose of Arena, Training, Life archive, Phenotype Lab and AI / API; these are optional destinations rather than a mandatory tour.
+
+Continue editing collapses the saved comparison and focuses the name field. The comparison stays mounted, preserving request identities and polling while the visitor edits. Reopening the disclosure shows the saved version's existing progress or results; unsaved edits do not alter its subject or submit work. The guide labels a draft with its draft name rather than a previous saved fly's name.
+
 ## Duration boundaries
 
 - The Arena web planner accepts 1–180 whole seconds for all its modes; the duration control presents the choices above and can display valid imported shorter values.
@@ -23,4 +31,4 @@ Submission keys, immutable request bodies and acknowledged series IDs are stored
 
 The DOM journeys test the saved-design handoff, WT/public eligibility, 180-second request construction, complete versus partial evidence, correct slot aggregation and refresh/retry recovery. Backend tests create durable 180-second sandbox pairs, verify atomic and idempotent admission, recover records after reopening the database and check that sandbox results earn no leaderboard points.
 
-Real Chromium checks exercise the actual frontend at 1440 and 390 pixels in English and Chinese, including the login-return handoff, saved-design identity, explicit compute start, reload, results-before-Arena and horizontal overflow. These browser checks use synthetic API responses in an isolated context; their scores are UI fixtures, not new scientific results or a live NyxID-provider validation. No new 180-second physical study is claimed by these checks.
+Real Chromium checks exercise the actual frontend at 1440 and 390 pixels in English and Chinese, including Clone WT → edit progression, collapsed advanced tools, phone editor placement, login-return handoff, saved-design identity, the two-second trial explanation, explicit compute start, editing while queued, reopening without resubmission, reload, results-before-Arena and horizontal overflow. These browser checks use synthetic API responses in an isolated context; their scores are UI fixtures, not new scientific results or a live NyxID-provider validation. No new 180-second physical study is claimed by these checks.
